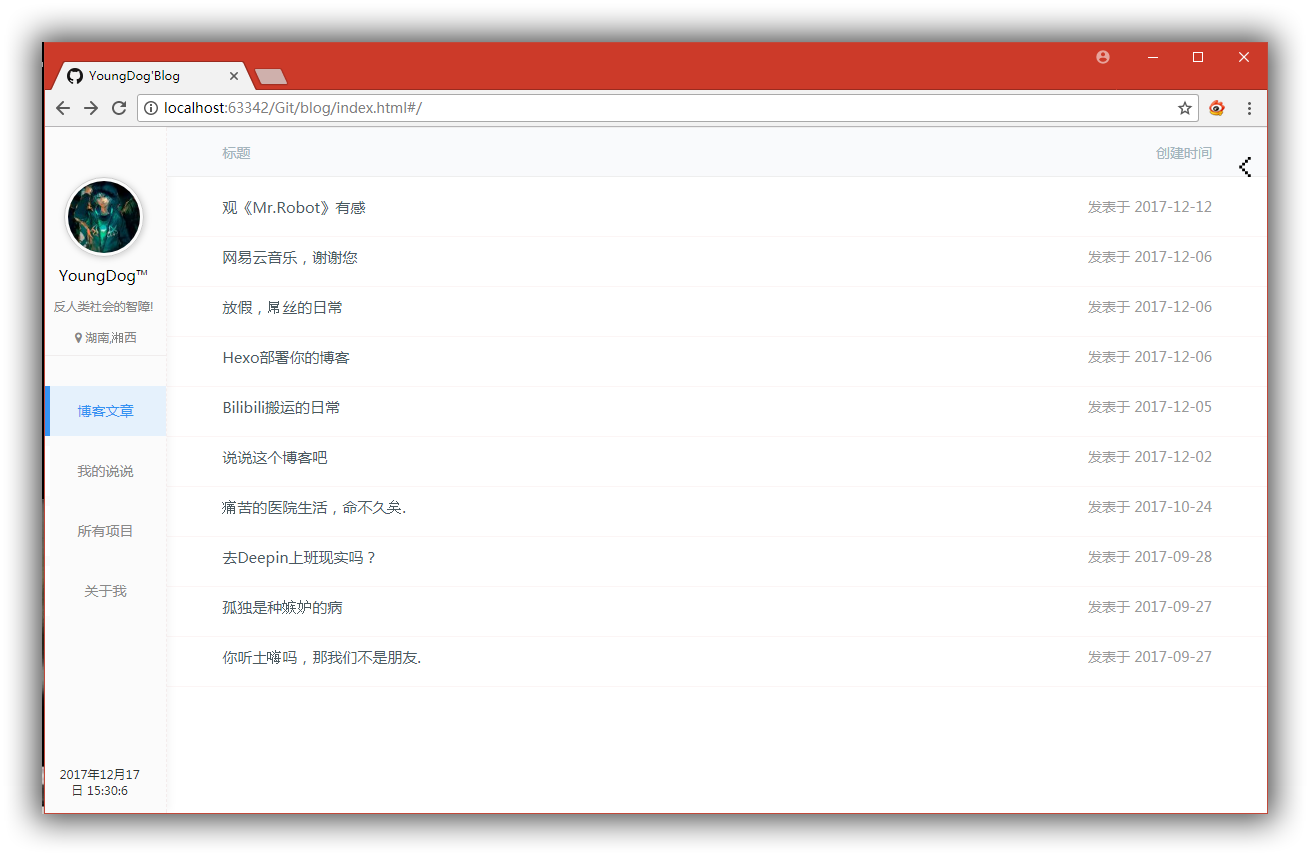
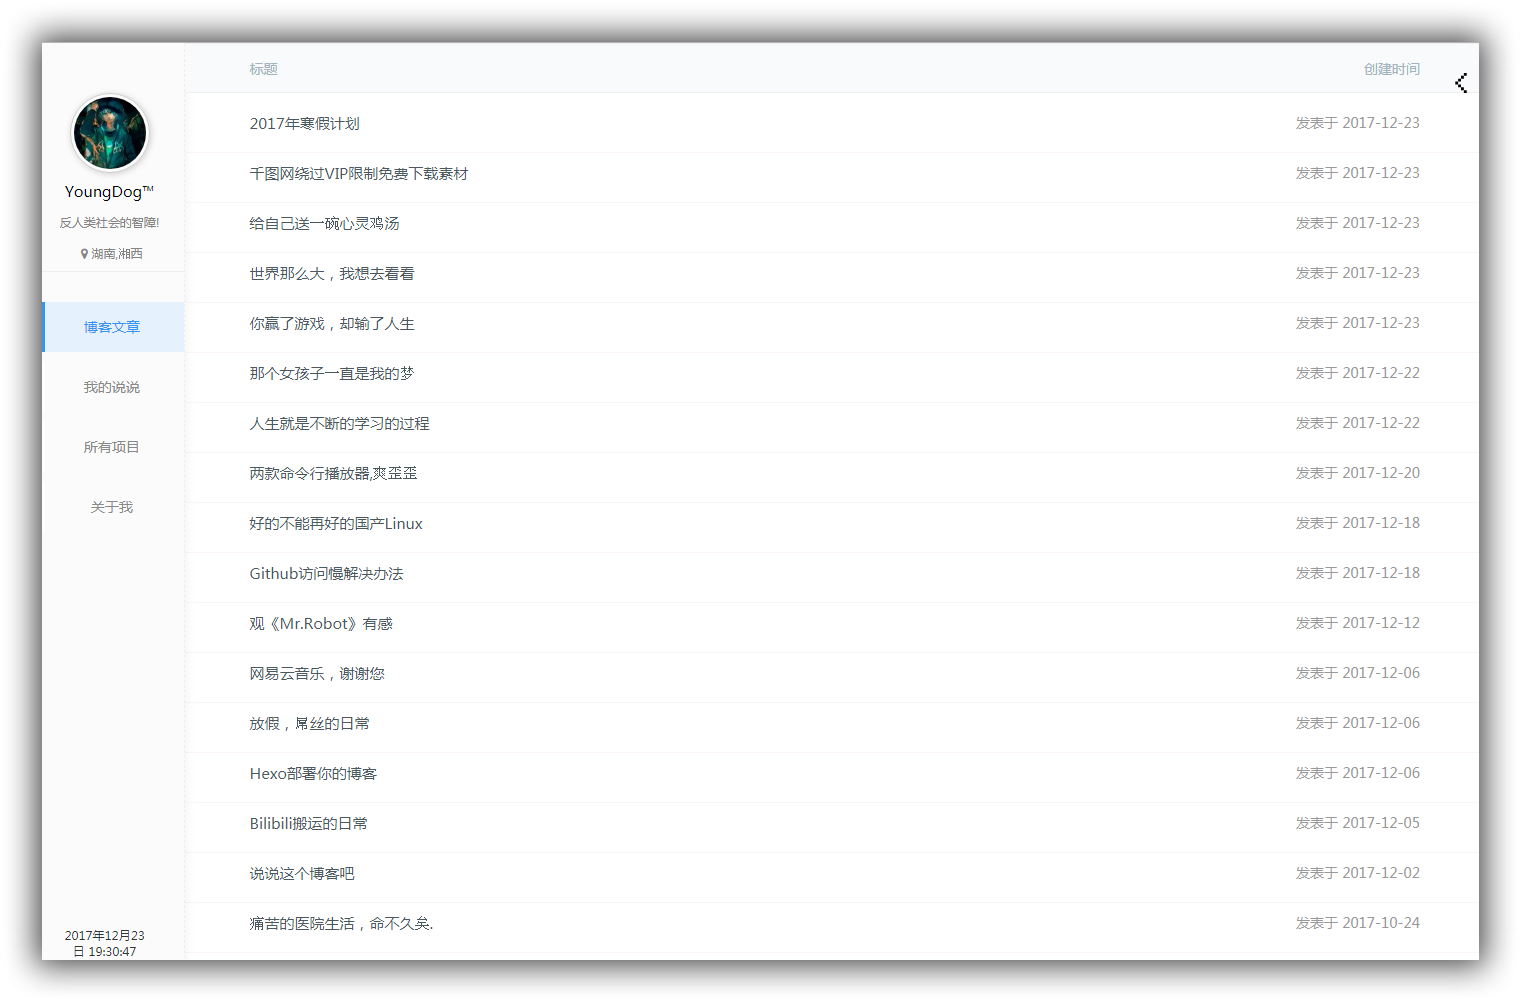
header-left

diff --git a/index.html b/index.html
@@ -80,7 +80,7 @@
 </head>
 <body>
 <div id="line"></div>
-<div id="header" class="fl">
+<div id="header" class="fr">
   <h1 id="link">
 
       <a href="javascript:;" onClick="javascript :history.back(-1);">
@@ -105,8 +105,8 @@
       </p>
 
       <dl class="link"><!--Date:2017/12/12-->
-          <dd><a href="javascript:" id="post" class="active">博客文章</a></dd>
-          <dd><a href="javascript:" id="mood">我的说说</a></dd>
+          <dd><a href="javascript:" id="post">博客文章</a></dd>
+          <dd><a href="javascript:" id="music">来首音乐</a></dd>
           <dd><a href="javascript:" id="project">所有项目</a></dd>
           <dd><a href="javascript:" id="about">关于我</a></dd>
       </dl>
@@ -115,45 +115,8 @@
 
   </h1>
 </div>
-<!--
-<div class="windows">
-    <div class="red"></div>
-    <div class="orange"></div>
-    <div class="green"></div>
-</div>
--->
-<div id="container" class="fl">
+<div id="container">
     <center><img src="loading.gif" alt="loading" class="loading"></center>
-</div>
-
-<div class="mood">
-        <div class="show-list">
-            <div class="commit">
-                2017年12月14日 09:38
-            </div>
-            <div class="con">
-                <p>今天早上是代码课，从早上到第二节课</p>
-                <p>我像往常一样，玩着自己的</p>
-                <p>早上我感到一种孤独感，我自己也喜欢这种孤独感，所以我自己坐到了最后一排</p>
-                <p>有点想哭，很孤独</p>
-                <p>我现在已经放弃读书了</p>
-                <p>我不知道以后会不会后悔，但我知道我只能这样了</p>
-                <p>这个学校已经没有我所可依赖的了</p>
-                <p>除了每天的吃饭时间，其他时间我都无所谓了</p>
-                <p>最后表示一句:去ＴＭ的社会!</p>
-            </div>
-        </div>
-        <div class="show-list">
-            <div class="commit">
-                2017年12月11日 18:43
-            </div>
-            <div class="con">
-                <p>现在是第一节自习，我现在带个耳机</p>
-                <p>是班主任的课，所以我把板凳放下来着玩</p>
-                <p>以后这个就是我用来记录事件的秘密仓库了</p>
-                <p>可以是日记，也可以是大事件</p>
-            </div>
-        </div>
 </div>
 
 <div class="project">
@@ -243,19 +206,15 @@
     </a>
 </div>
 
-<a href="javascript:;" id="music">
-  <img src="music.svg" alt="">
-</a>
-
 <div id="musicbox">
-    <iframe frameborder="no" border="0" marginwidth="0" marginheight="0" width=330 height=450 src="//music.163.com/outchain/player?type=0&id=363800017&auto=0&height=430"></iframe>
+    <iframe frameborder="no" border="0" marginwidth="0" marginheight="0" width=330 height=450 src="http://music.163.com/outchain/player?type=0&id=363800017&auto=0&height=430"></iframe>
 </div>
 
 <script type="text/ractive" id="listTpl">
     <div class="header-table">
         <div class="table">
-            <div class="title fl">标题</div>
-            <div class="date fr">创建时间</div>
+            <div class="title fl">文章标题</div>
+            <div class="date fr">什么时间写的</div>
         </div>
     </div>
     <ul class="postlist">
@@ -348,30 +307,39 @@
   });
   </script>
   <script type="text/javascript">
+      /*
+      $("#post,#project,#about").click(function(){
+          $(this).toggleClass("active");
+       })
+       */
       $("#post").click(function () {
           $("#container").css("display","block");
-          $(".mood").css("display","none");
-          $(".about").css("display","none");
-          $(".project").css("display","none");
+          $(".about,.project").css("display","none");
       })
-      $("#mood").click(function(){
-          $(".mood").css("display","block");
-          $("#container").css("display","none");
-          $(".about").css("display","none");
-          $(".project").css("display","none");
-      });
       $("#project").click(function () {
           $(".project").css("display","block");
-          $(".mood").css("display","none");
-          $(".about").css("display","none");
-          $("#container").css("display","none");
+          $(".about,#container").css("display","none");
       })
       $("#about").click(function () {
           $(".about").css("display","block");
-          $(".project").css("display","none");
-          $(".mood").css("display","none");
-          $("#container").css("display","none");
+          $(".project,#container").css("display","none");
       })
   </script>
 </body>
 </html>
+<!-- 博客已经运行
+
+已勉强运行
+ <b>
+  <strong>
+    <script language="JavaScript" type ="text/javascript">
+       var urodz = new Date("12/06/2000")
+       var now = new Date();
+       var ile = now.getTime() - urodz.getTime();
+       var dni = Math.floor(ile / (1000 * 60 * 60 * 24));
+       document.write( + dni)
+     </script>
+  </strong>
+</b>
+
+-->

diff --git a/css/blog/style.css b/css/blog/style.css
@@ -48,14 +48,14 @@ h2{
 #header{
     position: fixed;
     top:0;
-    left:0;
+    right:0;
     width: 10%;
     height: 100%;
     text-align: center;
     background: #fbfbfb;
     border-right: 1px dashed #f4ecec;
-    box-shadow: 3px -3px 10px rgba(161, 161, 161, 0.1);
-    /*animation: top-b 2s;*/
+    box-shadow: 10px -3px 30px #333;
+    animation: top-b 2s;
     transition: all .3s;
     z-index: 99;
 }
@@ -96,10 +96,11 @@ h2{
   font-size: 10px;
   bottom: 10px;
   left: 0;
-  width: 90%;
+  width: 100%;
   transition: all .3s;
   color: #333;
   margin: 5px 0;
+  text-align: right;
 }
 #me{
     display: inline-block;
@@ -200,7 +201,6 @@ h2{
     position: relative;
     width: 90%;
     margin-bottom: 40px;
-    margin-left: 10%;
    /* animation: content .5s ease-in;*/
     transition: all .3s;
 }
@@ -238,6 +238,7 @@ h2{
     height: 50px;
     border-top: 1px solid #eee;
     border-bottom: 1px solid #eee;
+    box-shadow: 1px 1px 10px #eee;
     background: #f9fafc;
     z-index: 99;
 }
@@ -361,7 +362,7 @@ ul.postlist li.postlist:hover em{
 #back{
     position: fixed;
     bottom: 20px;
-    right: 5%;
+    right: 12%;
     text-align: center;
 }
 #back a{
@@ -377,31 +378,12 @@ ul.postlist li.postlist:hover em{
     border-radius: 50%;
     line-height: 40px;
     color: #fff;
-    box-shadow: 1px 1px 5px #ccc;
     background: #333;
-}
-#music{
-  position: fixed;
-  top: 0;
-  right:1%;
-  font-size: 20px;
-  color: rgb(158, 157, 157);
-  z-index: 999;
-  transition: all .3s;
-}
-#music img{
-  width: 20px;
-  height: 20px;
-  display: inline-block;
-}
-#music:hover{
-  transform: scale(1.2,1.2);
-  color: #333;
 }
 #musicbox{
   position: fixed;
-  top:10%;
-  right: 5%;
+  top:5%;
+  right: 10%;
   display: none;
 }
 .show-list{

diff --git a/README.md b/README.md
@@ -1,70 +1,27 @@
 <p align="center"><img src="README/v1.5.png"/></p>
 
+<p align="center" style="font-weight: blod;"><a href="http://装逼.top" target="_blank">DEMO</a></p>
 
-
-# 关于这个博客
-
-写博客只是记录自己的开发记录,还有生活
-
-从一开始有自己写一个博客的的想法，自己当时只为写出一个用来记录的日常的生活
-
-苦与乐，快乐与否，开心与否，并记录在此，若干年后，自己重新打开博客的时候，会看到自己的以前的生活
-
-做一个会生活的，学会生活，高质量的生活，
-
-所以这个博客还是主要是功能不是好看的ＵＩ，自从上次写了个好看的ＵＩ，一发不可收拾
-
-沉迷于ＵＩ，无法自拔
-
-所以，我会把我功能性的东西写好
-
-现在起，加油吧，少年，然后你已经不少年了
-
-你已经从昨天(12/06)日的时候不是一位16岁的少年了，
-
-而是一个１７岁的少年了，你已经不小了，该为自己的梦想而奋斗了．
-
-说一下我现在的技术
-
-> HTML   = 50%
-
-> CSS    = 40%
-
-> JS     = 0%
-
-> GIT    = 60%
-
-> PS     = 80%
-
-> NodeJS = 0%
-
-
-说一下我现在的梦想
-
-> 活出自己想要活出来的样子
-
-
-
+------------
 
 
 # Link
+> **Fork自:[wuhaoworld](https://github.com/wuhaoworld/github-issues-blog)**
 
 - Github: [chenhonzhou](http://github.com/chenhonzhou)
-
-- TXQQ:   [2915537708](tencent://AddContact/?fromId=50&fromSubId=1&subcmd=all&uin=2915537708)
 
 - Email: [chenhonzhou@gmail.com](https://www.google.com/gmail)
 
 - V2EX:  [chenhonzhou](https://www.v2ex.com/member/chenhonzhou)
 
-- bilibili: [HardDeams](https://space.bilibili.com/27013266/#/)
+- Bilibili: [HardDeams](https://space.bilibili.com/27013266/#/)
 
-- zhihu: [陈宏洲不是NPC](https://www.zhihu.com/people/ChenHonZhouRemix/activities)
+- Zhihu: [陈宏洲不是NPC](https://www.zhihu.com/people/ChenHonZhouRemix/activities)
 
-- 网易云: [HardDeams](http://music.163.com/#/user/home?id=266341607)
+- Netease: [HardDeams](http://music.163.com/#/user/home?id=266341607)
 
 
-## 部署方法
+## Deployment method
 
  - Fork 本项目，然后再新建一个用于存放 blog（issues）的 repo。 （fork 的项目是没有 issue 的，所以得新建个项目）
 
